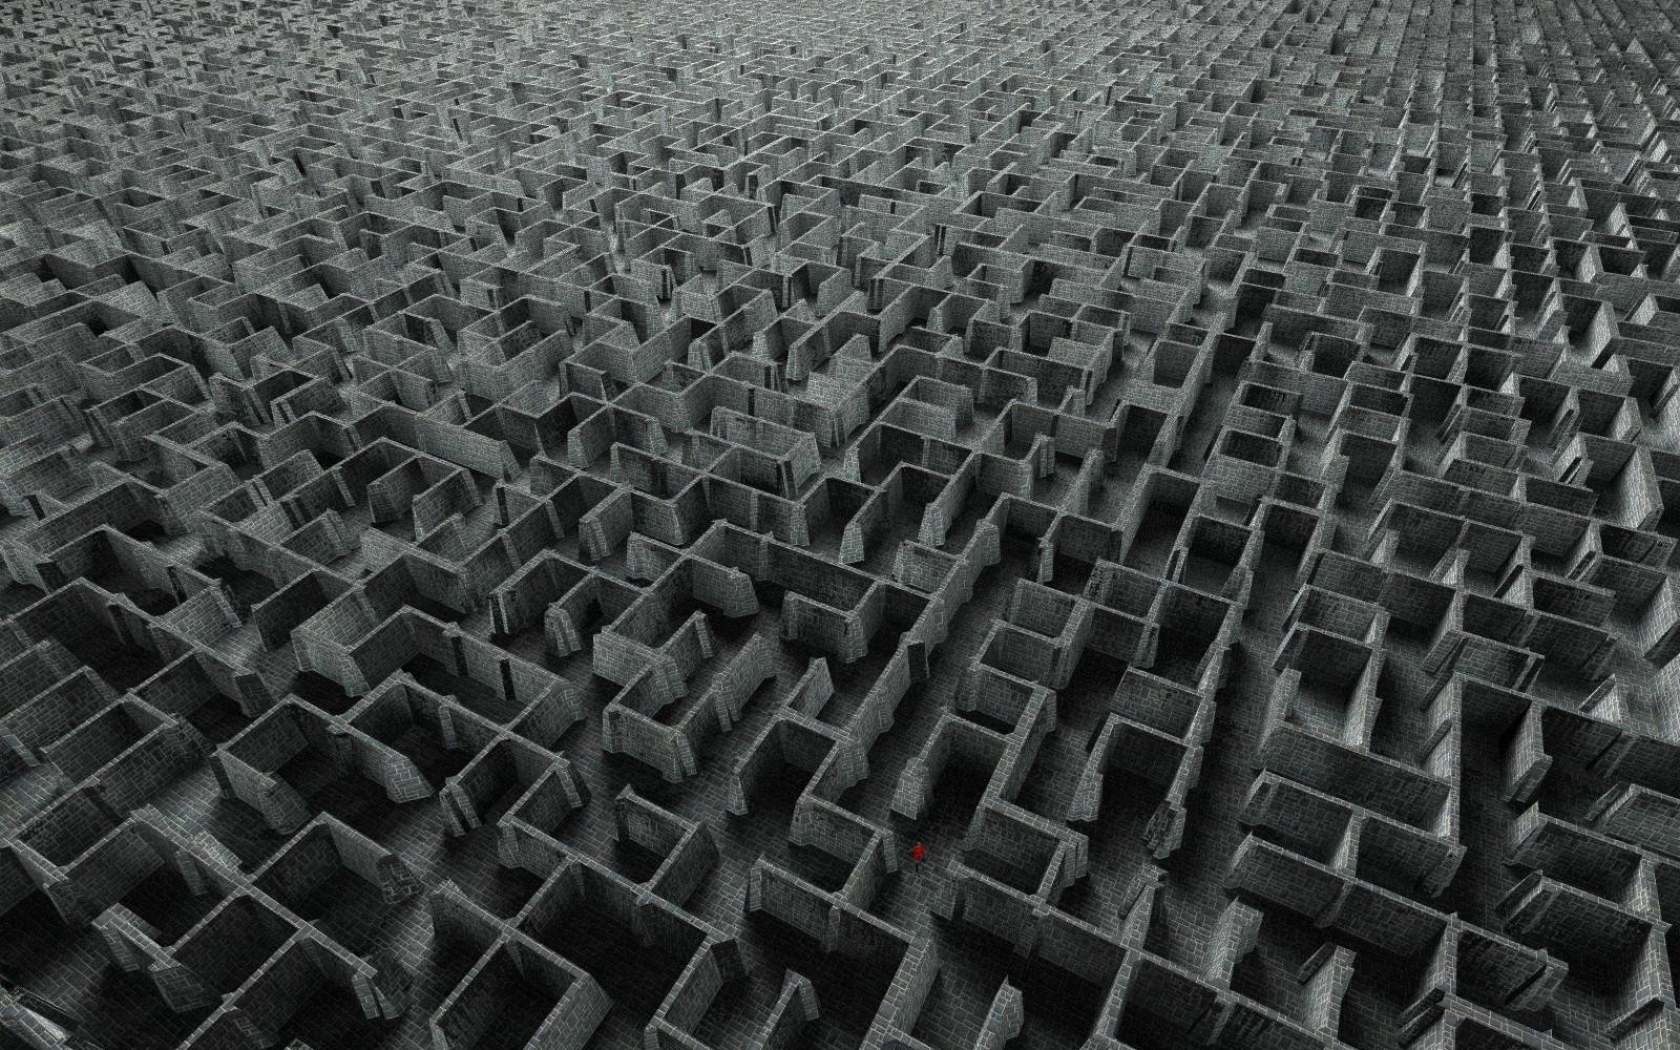
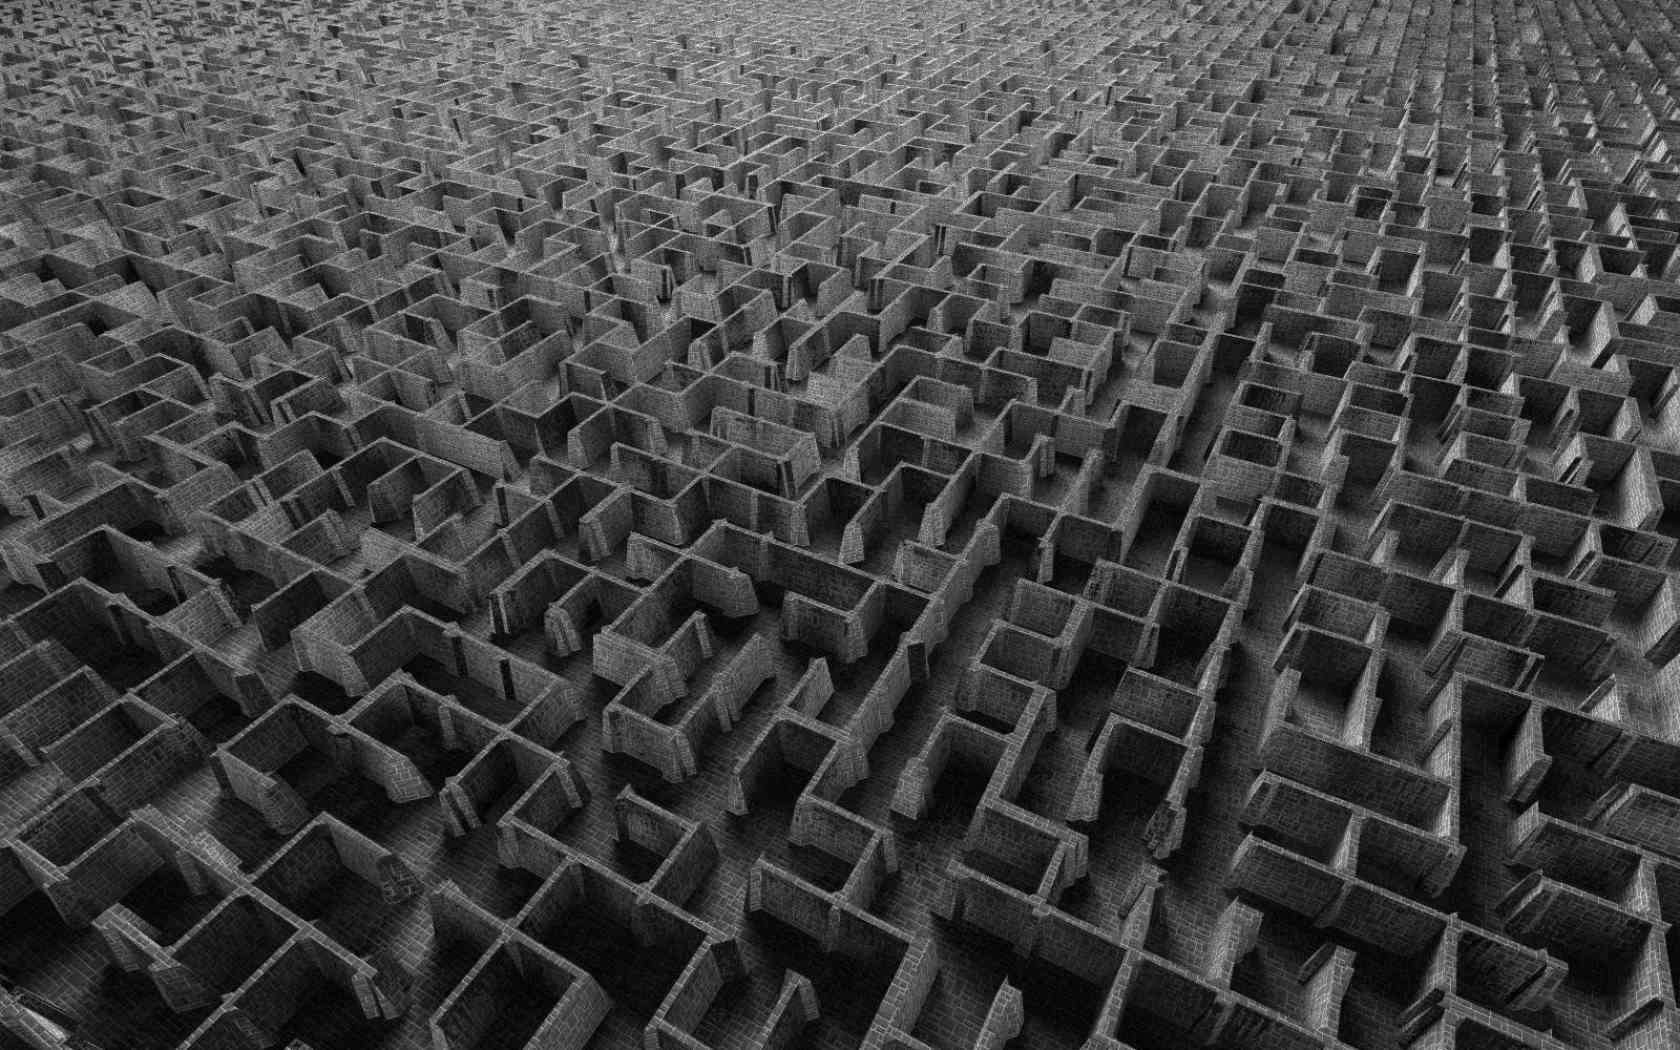
master/fix: images size reduced

diff --git a/death-maze/js/game.js b/death-maze/js/game.js
@@ -185,7 +185,7 @@ function Map(size) {
 	this.size = size;
 	this.wallGrid = new Uint8Array(size * size);
 	this.skybox = new Bitmap('img/deathvalley_panorama.jpg', 2000, 750);
-	this.wallTexture = new Bitmap('img/wall_texture1.jpg', 680, 438);
+	this.wallTexture = new Bitmap('img/wall_texture4.jpg', 680, 438);
 	//this.wallTexture = new Bitmap('img/wall_texture3.jpg', 600, 400);
 	//this.wallTexture = new Bitmap('img/wall_texture.jpg', 1024, 1024);
 	this.light = 0;
@@ -666,7 +666,7 @@ resources.load([
     'img/wall_texture.jpg',
     'img/wall_texture1.jpg',
     'img/wall_texture2.jpg',
-    'img/wall_texture3.jpg',
+    'img/wall_texture4.jpg',
     'img/deathvalley_panorama.jpg',
     'img/pistol_arr.png',
     'img/zombie.png',
